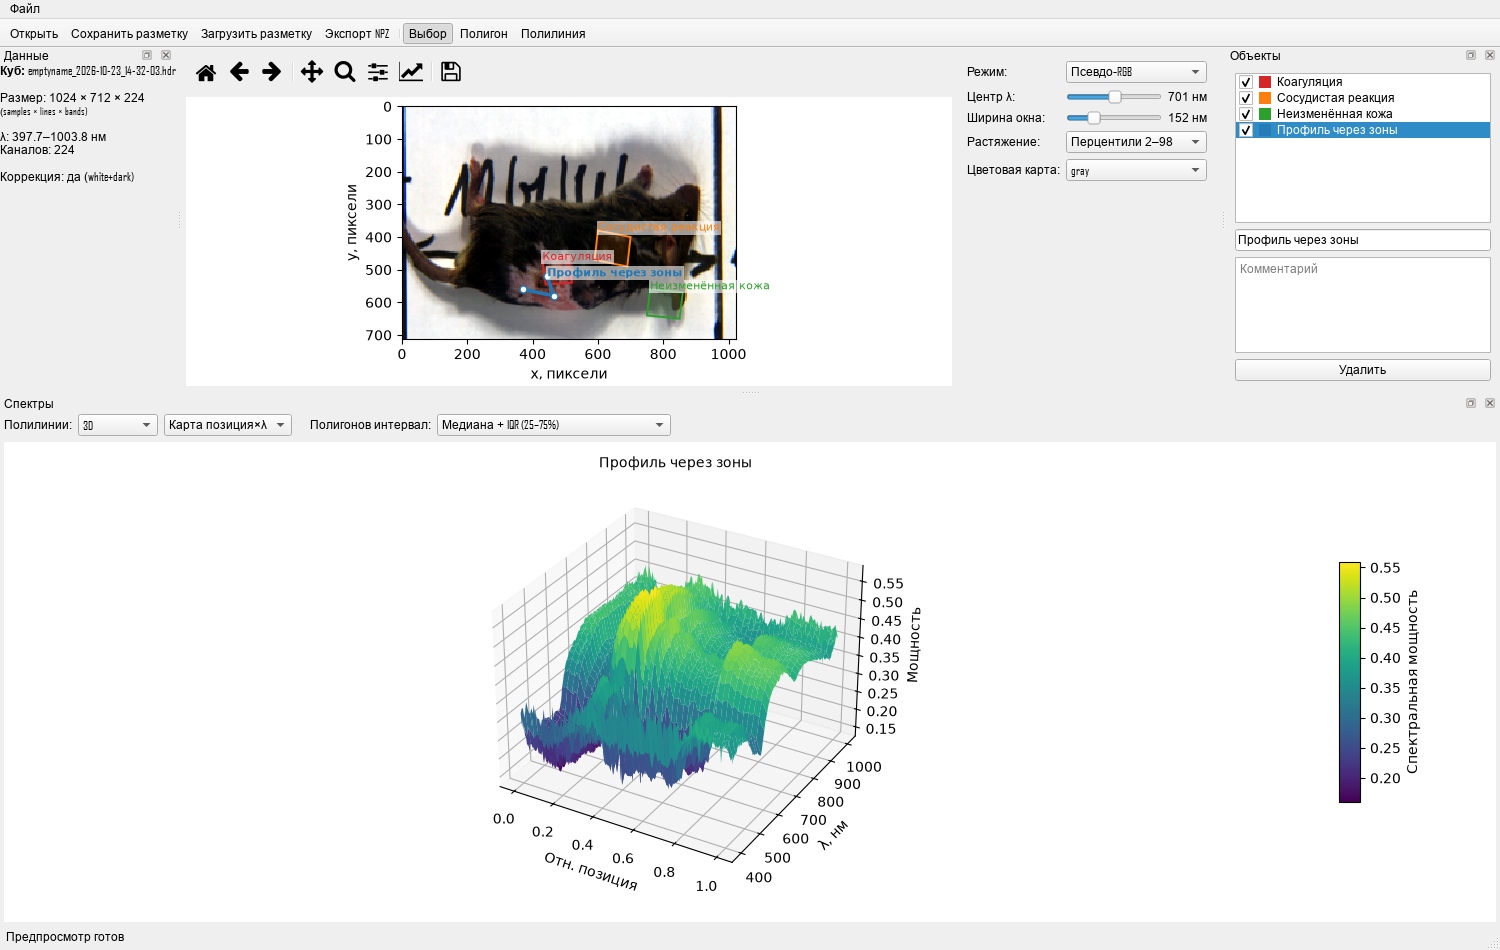
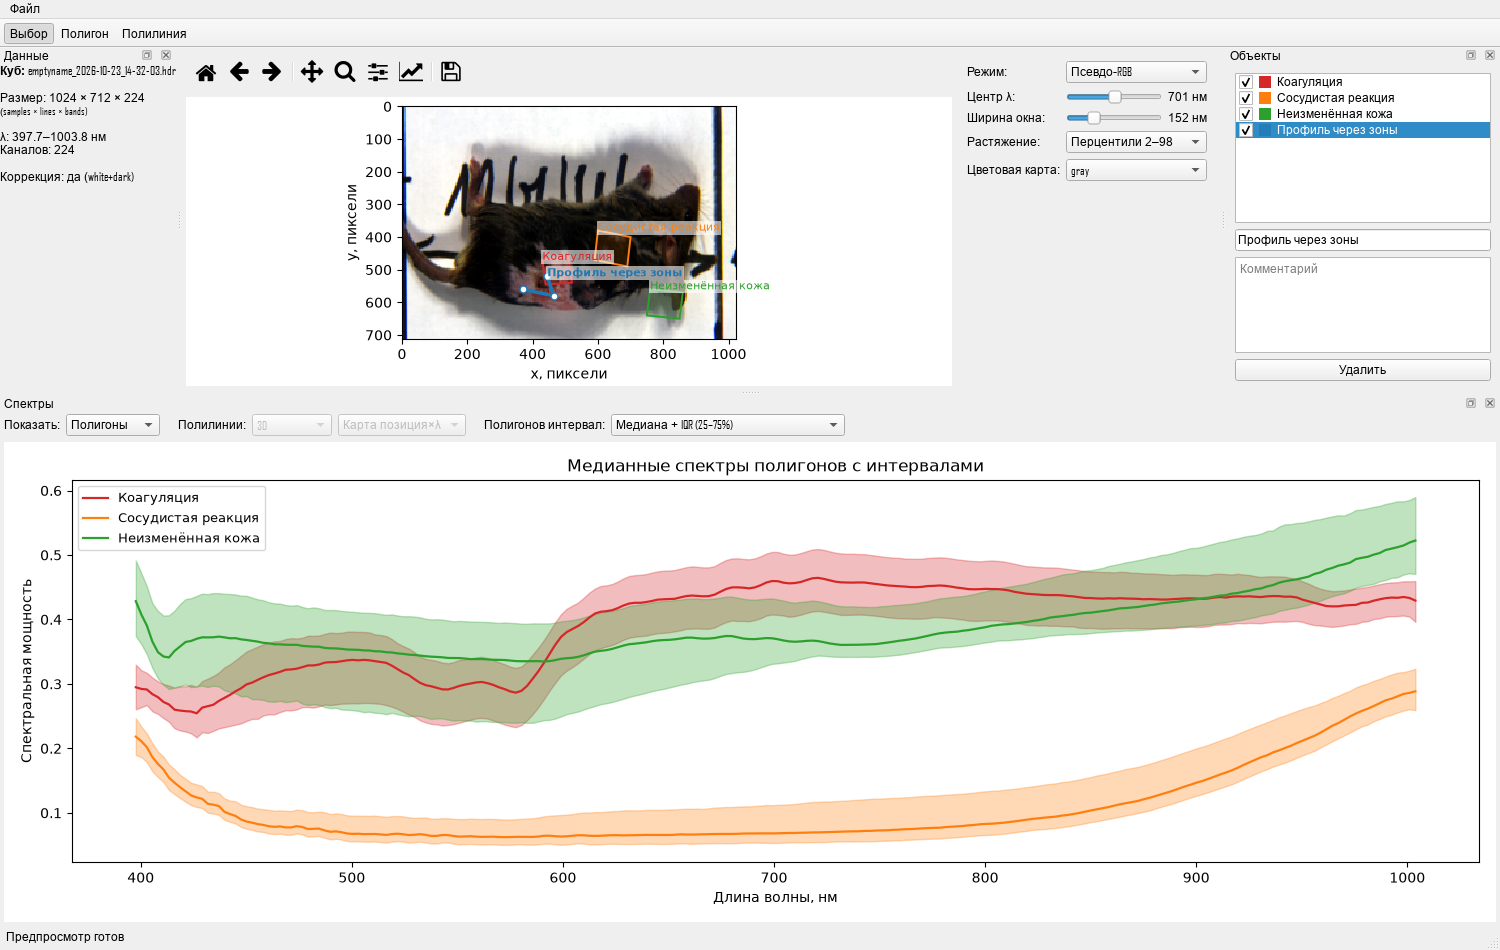
Add explicit kind switch (polygons/polylines) to the spectra panel
When both polygons and polylines are visible the panel silently showed
only polylines. A 'Показать: Полигоны/Полилинии' combo now decides what
is displayed; the polyline view/waterfall combos are enabled only for
the polyline figure, and the combo auto-syncs when only one kind exists.

diff --git a/src/hsi_toolkit/app/spectrum_panel.py b/src/hsi_toolkit/app/spectrum_panel.py
@@ -29,6 +29,9 @@ CI_STD = "Среднее ± 3·STD"
 POLYLINE_RIBBON = DEFAULT_RIBBON_WIDTH
 MAX_TRACES = 30
 
+KIND_POLYGONS = "Полигоны"
+KIND_LINES = "Полилинии"
+
 
 def _ci_setting(index: int) -> Tuple[str, tuple]:
     return {
@@ -50,6 +53,8 @@ class SpectrumPanel(QWidget):
         self._cancel_current: Optional[dict] = None
         self._cache: dict = {}
 
+        self.kind_combo = QComboBox()
+        self.kind_combo.addItems([KIND_POLYGONS, KIND_LINES])
         self.view_combo = QComboBox()
         self.view_combo.addItems([VIEW_3D, VIEW_WATERFALL])
         self.waterfall_combo = QComboBox()
@@ -58,6 +63,9 @@ class SpectrumPanel(QWidget):
         self.ci_combo.addItems([CI_IQR, CI_P975, CI_STD])
 
         bar = QHBoxLayout()
+        bar.addWidget(QLabel("Показать:"))
+        bar.addWidget(self.kind_combo)
+        bar.addSpacing(12)
         bar.addWidget(QLabel("Полилинии:"))
         bar.addWidget(self.view_combo)
         bar.addWidget(self.waterfall_combo)
@@ -74,9 +82,11 @@ class SpectrumPanel(QWidget):
         layout.addLayout(bar)
         layout.addWidget(self.canvas, stretch=1)
 
+        self.kind_combo.currentIndexChanged.connect(self._redraw)
         self.view_combo.currentIndexChanged.connect(self._redraw)
         self.waterfall_combo.currentTextChanged.connect(self._redraw)
         self.ci_combo.currentIndexChanged.connect(self._redraw)
+        self._set_kind_widgets()
         self.show_message("Нет видимых объектов — отметьте их галочкой в списке")
 
     # -- public ---------------------------------------------------------------
@@ -233,15 +243,42 @@ class SpectrumPanel(QWidget):
         self.canvas.draw_idle()
 
     def _redraw(self) -> None:
-        if self._result_lines:
-            if self.view_combo.currentText() == VIEW_3D:
-                self._draw_lines_3d(self._result_lines)
-            else:
-                self._draw_lines_waterfall(self._result_lines)
-        elif self._result_polygons:
+        lines_ok = bool(self._result_lines)
+        polygons_ok = bool(self._result_polygons)
+        want = self.kind_combo.currentText()
+        if want == KIND_POLYGONS and polygons_ok:
             self._draw_polygons(self._result_polygons)
+            self._set_kind_widgets()
+        elif want == KIND_LINES and lines_ok:
+            self._draw_lines()
+            self._set_kind_widgets()
+        elif polygons_ok:  # requested kind has no data: show what exists
+            self._sync_kind_combo(KIND_POLYGONS)
+            self._draw_polygons(self._result_polygons)
+            self._set_kind_widgets()
+        elif lines_ok:
+            self._sync_kind_combo(KIND_LINES)
+            self._draw_lines()
+            self._set_kind_widgets()
         else:
             self.show_message("Нет видимых объектов — отметьте их галочкой в списке")
+
+    def _draw_lines(self) -> None:
+        if self.view_combo.currentText() == VIEW_3D:
+            self._draw_lines_3d(self._result_lines)
+        else:
+            self._draw_lines_waterfall(self._result_lines)
+
+    def _sync_kind_combo(self, kind: str) -> None:
+        if self.kind_combo.currentText() != kind:
+            self.kind_combo.blockSignals(True)
+            self.kind_combo.setCurrentText(kind)
+            self.kind_combo.blockSignals(False)
+
+    def _set_kind_widgets(self) -> None:
+        lines_shown = self.kind_combo.currentText() == KIND_LINES
+        self.view_combo.setEnabled(lines_shown)
+        self.waterfall_combo.setEnabled(lines_shown)
 
     def _draw_polygons(self, results: list) -> None:
         self.figure.clf()

diff --git a/tests/test_app_smoke.py b/tests/test_app_smoke.py
@@ -70,11 +70,16 @@ def test_smoke_workflow(window, qapp):
     assert [r[0] for r in win.spectrum_panel._result_polygons] == ["t1"]
     assert [r[0] for r in win.spectrum_panel._result_lines] == ["t2"]
 
-    # 3D view toggle
+    # Kind switch: both kinds present -> the combo decides what is displayed.
+    assert win.spectrum_panel.kind_combo.currentText() == "Полигоны"
+    # One curve per polygon; the CI band is a PolyCollection, not a line.
+    assert len(win.spectrum_panel.figure.axes[0].lines) == 1
+
+    win.spectrum_panel.kind_combo.setCurrentText("Полилинии")
     win.spectrum_panel.view_combo.setCurrentText("3D")
     qapp.processEvents()
-    wait_for(lambda: win.spectrum_panel.has_content, qapp)
     assert any("3d" in ax.name.lower() for ax in win.spectrum_panel.figure.axes)
+    assert not win.spectrum_panel.view_combo.isEnabled() is False
 
     # Save annotations to JSON and load back
     ann_path = tmp_path / "annotations.json"
